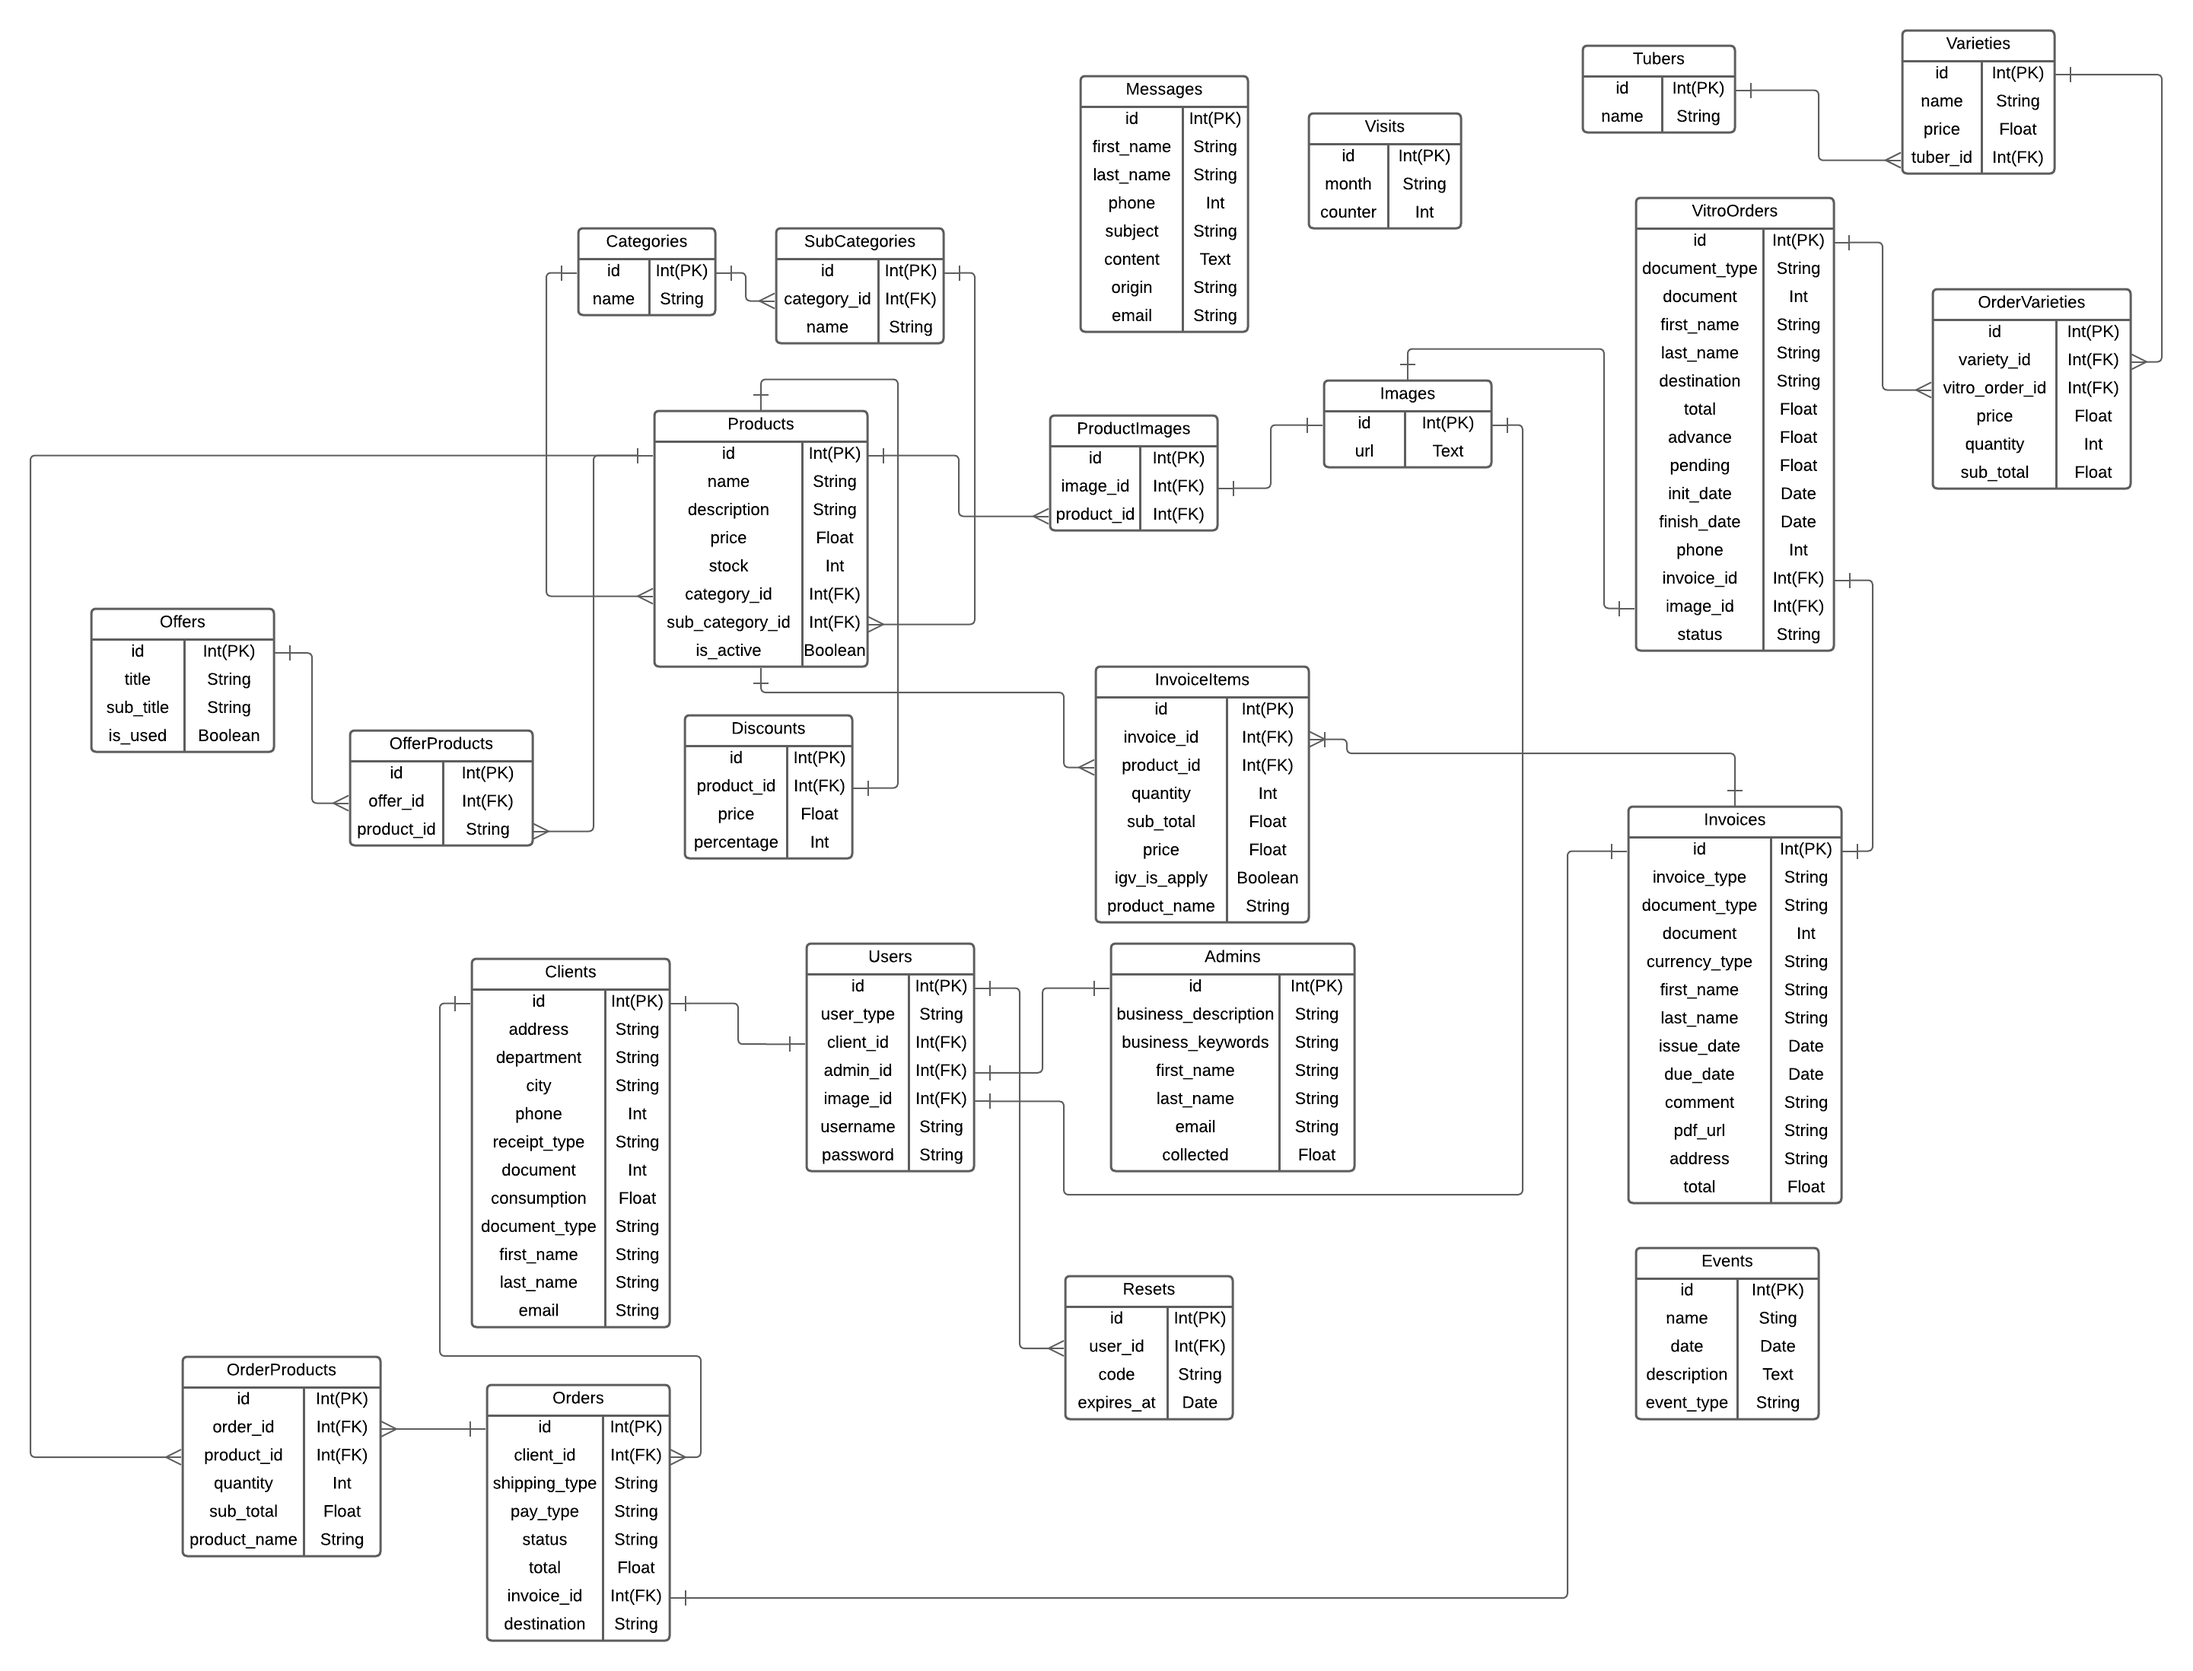
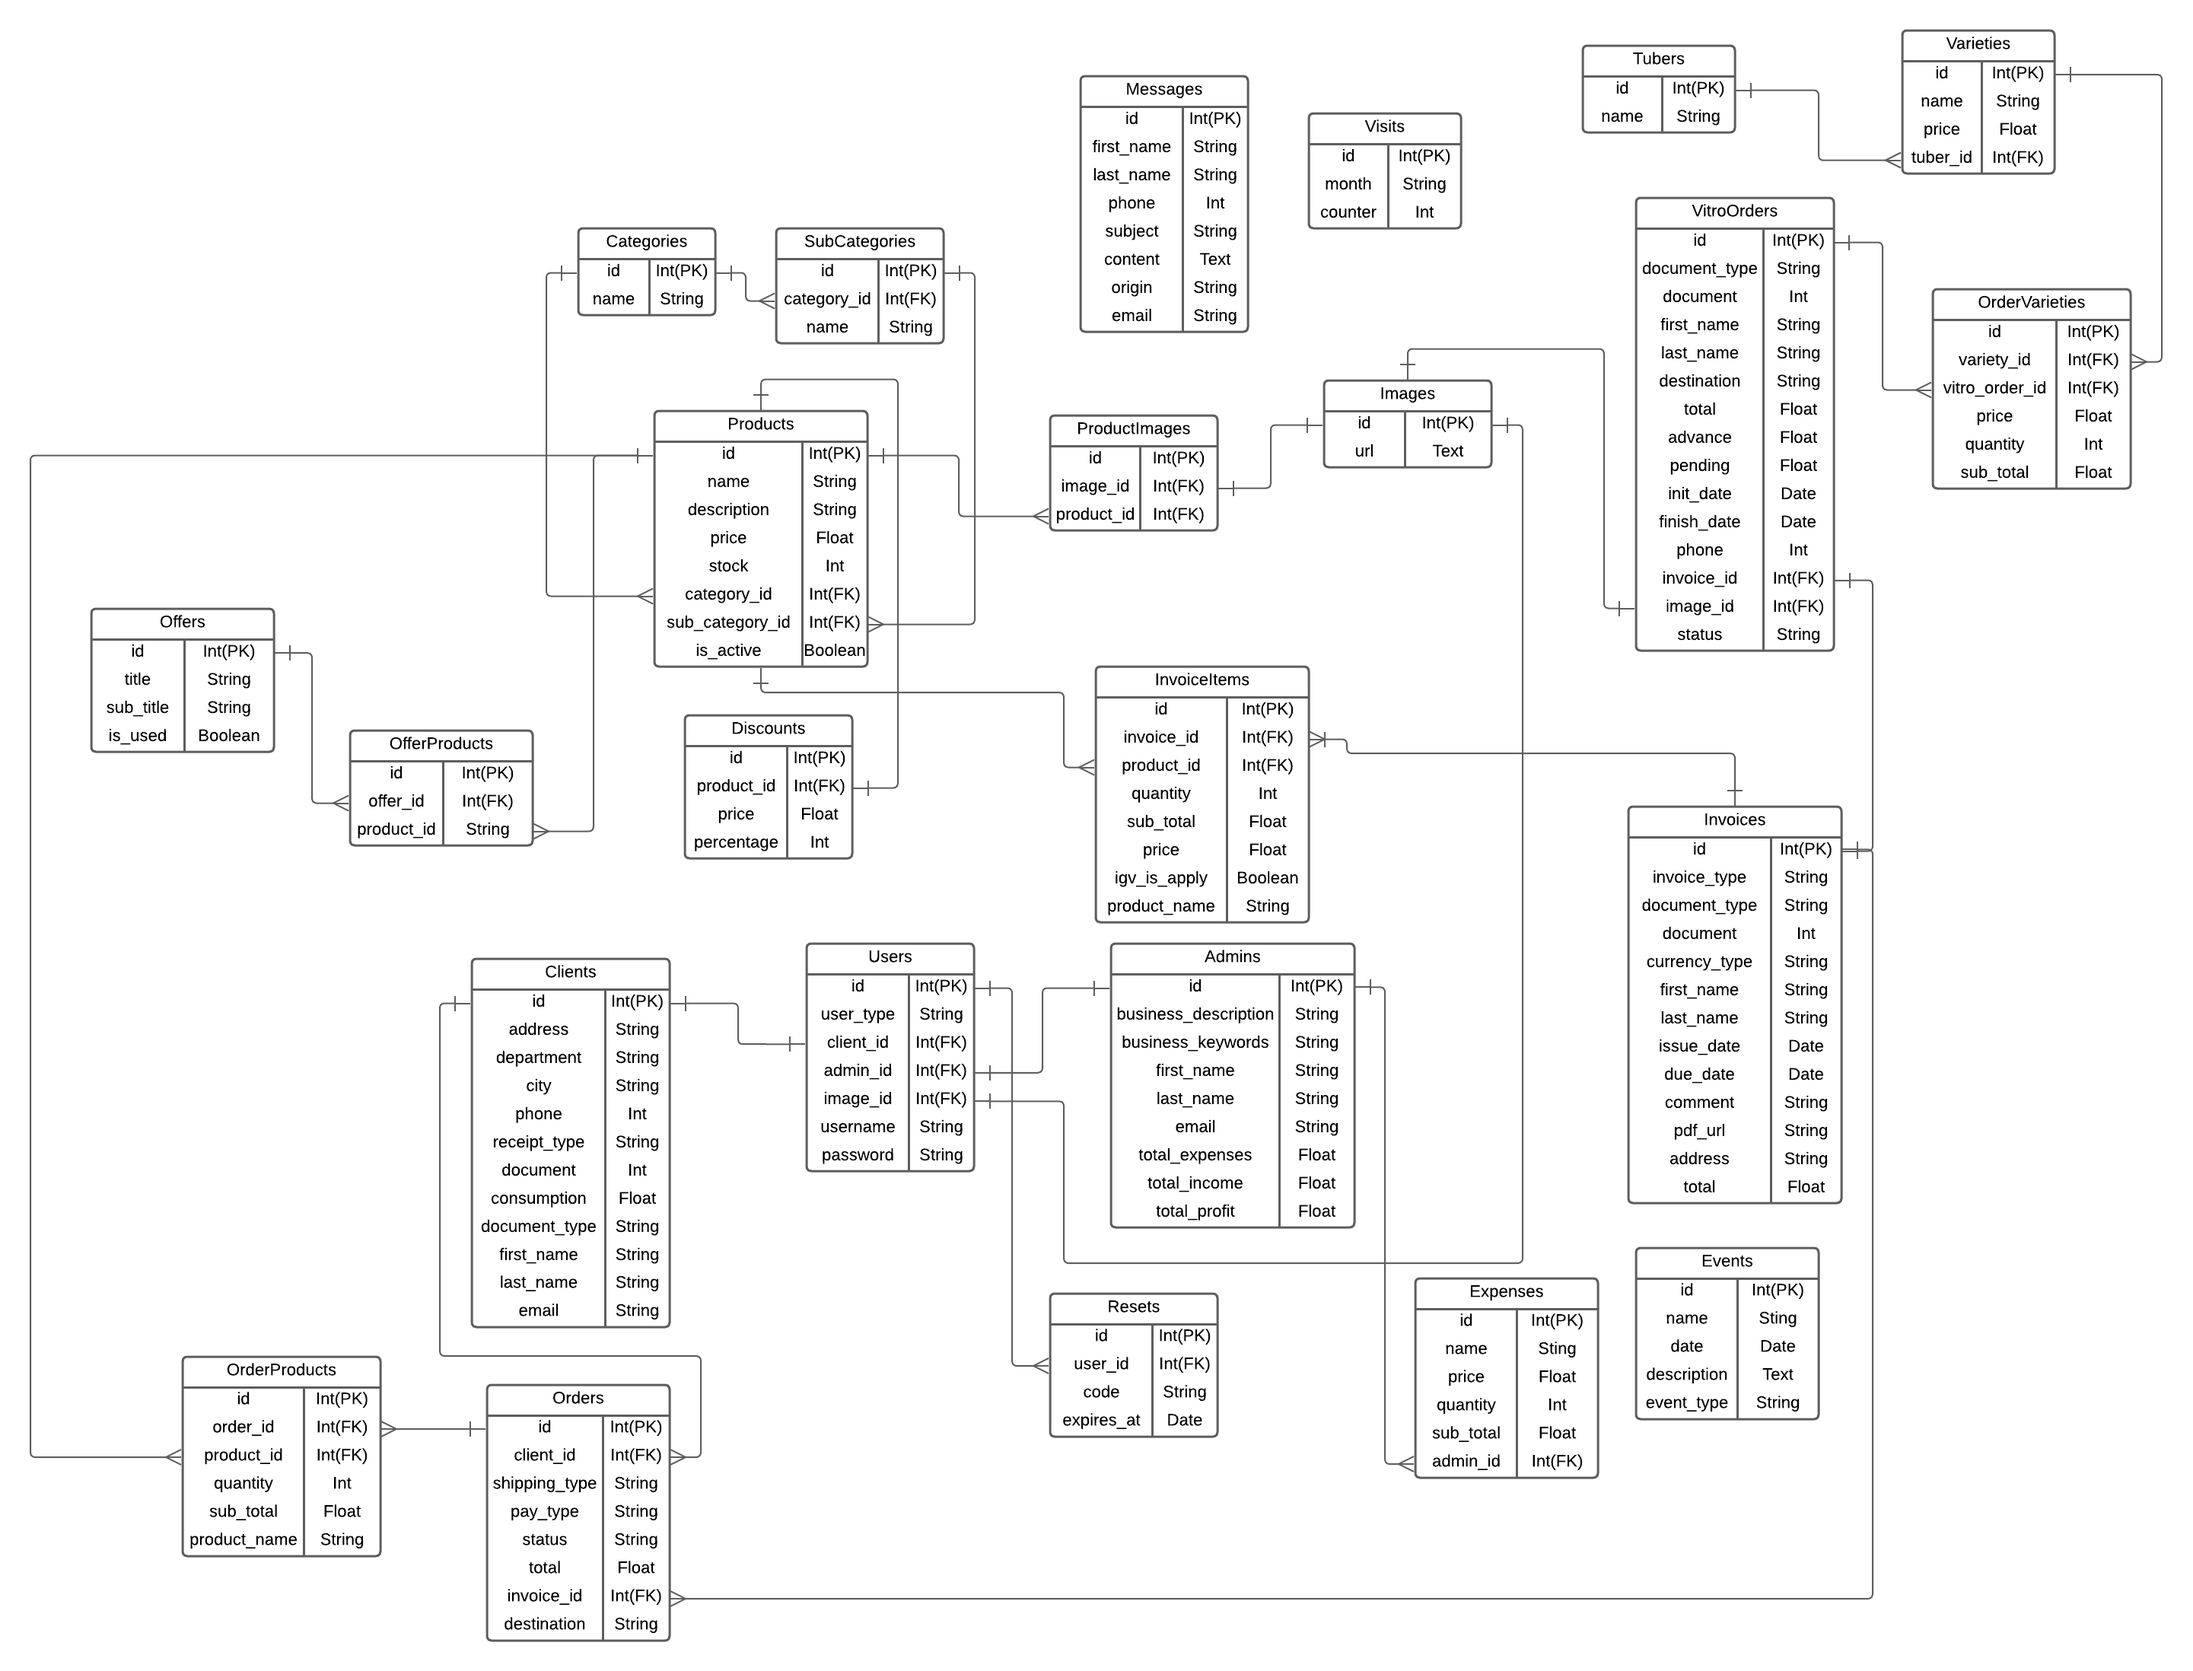
ADD: expenses table

Changed region(s): [[0.4684, 0.6812, 0.6246, 0.867], [0.6558, 0.7432, 0.7183, 0.898]]

diff --git a/app/Policies/ExpensePolicy.php b/app/Policies/ExpensePolicy.php
@@ -1,0 +1,66 @@
+<?php
+
+namespace App\Policies;
+
+use App\Models\Expense;
+use App\Models\User;
+use Illuminate\Auth\Access\Response;
+
+class ExpensePolicy
+{
+    /**
+     * Determine whether the user can view any models.
+     */
+    public function viewAny(User $user): bool
+    {
+        //
+    }
+
+    /**
+     * Determine whether the user can view the model.
+     */
+    public function view(User $user, Expense $expense): bool
+    {
+        //
+    }
+
+    /**
+     * Determine whether the user can create models.
+     */
+    public function create(User $user): bool
+    {
+        //
+    }
+
+    /**
+     * Determine whether the user can update the model.
+     */
+    public function update(User $user, Expense $expense): bool
+    {
+        //
+    }
+
+    /**
+     * Determine whether the user can delete the model.
+     */
+    public function delete(User $user, Expense $expense): bool
+    {
+        //
+    }
+
+    /**
+     * Determine whether the user can restore the model.
+     */
+    public function restore(User $user, Expense $expense): bool
+    {
+        //
+    }
+
+    /**
+     * Determine whether the user can permanently delete the model.
+     */
+    public function forceDelete(User $user, Expense $expense): bool
+    {
+        //
+    }
+}

diff --git a/app/Http/Controllers/ExpenseController.php b/app/Http/Controllers/ExpenseController.php
@@ -1,0 +1,66 @@
+<?php
+
+namespace App\Http\Controllers;
+
+use App\Http\Requests\StoreExpenseRequest;
+use App\Http\Requests\UpdateExpenseRequest;
+use App\Models\Expense;
+
+class ExpenseController extends Controller
+{
+    /**
+     * Display a listing of the resource.
+     */
+    public function index()
+    {
+        //
+    }
+
+    /**
+     * Show the form for creating a new resource.
+     */
+    public function create()
+    {
+        //
+    }
+
+    /**
+     * Store a newly created resource in storage.
+     */
+    public function store(StoreExpenseRequest $request)
+    {
+        //
+    }
+
+    /**
+     * Display the specified resource.
+     */
+    public function show(Expense $expense)
+    {
+        //
+    }
+
+    /**
+     * Show the form for editing the specified resource.
+     */
+    public function edit(Expense $expense)
+    {
+        //
+    }
+
+    /**
+     * Update the specified resource in storage.
+     */
+    public function update(UpdateExpenseRequest $request, Expense $expense)
+    {
+        //
+    }
+
+    /**
+     * Remove the specified resource from storage.
+     */
+    public function destroy(Expense $expense)
+    {
+        //
+    }
+}

diff --git a/database/migrations/2024_05_02_163255_create_expenses_table.php b/database/migrations/2024_05_02_163255_create_expenses_table.php
@@ -1,0 +1,34 @@
+<?php
+
+use Illuminate\Database\Migrations\Migration;
+use Illuminate\Database\Schema\Blueprint;
+use Illuminate\Support\Facades\Schema;
+
+return new class extends Migration
+{
+  /**
+   * Run the migrations.
+   */
+  public function up(): void
+  {
+    Schema::create('expenses', function (Blueprint $table) {
+      $table->id();
+      $table->string("name");
+      $table->float("price");
+      $table->integer("quantity");
+      $table->float("sub_total");
+      $table->unsignedBigInteger("admin_id");
+      $table->timestamps();
+
+      $table->foreign("admin_id")->references("id")->on("admins");
+    });
+  }
+
+  /**
+   * Reverse the migrations.
+   */
+  public function down(): void
+  {
+    Schema::dropIfExists('expenses');
+  }
+};

diff --git a/app/Http/Requests/UpdateExpenseRequest.php b/app/Http/Requests/UpdateExpenseRequest.php
@@ -1,0 +1,28 @@
+<?php
+
+namespace App\Http\Requests;
+
+use Illuminate\Foundation\Http\FormRequest;
+
+class UpdateExpenseRequest extends FormRequest
+{
+    /**
+     * Determine if the user is authorized to make this request.
+     */
+    public function authorize(): bool
+    {
+        return false;
+    }
+
+    /**
+     * Get the validation rules that apply to the request.
+     *
+     * @return array<string, \Illuminate\Contracts\Validation\ValidationRule|array<mixed>|string>
+     */
+    public function rules(): array
+    {
+        return [
+            //
+        ];
+    }
+}

diff --git a/app/Http/Requests/StoreExpenseRequest.php b/app/Http/Requests/StoreExpenseRequest.php
@@ -1,0 +1,28 @@
+<?php
+
+namespace App\Http\Requests;
+
+use Illuminate\Foundation\Http\FormRequest;
+
+class StoreExpenseRequest extends FormRequest
+{
+    /**
+     * Determine if the user is authorized to make this request.
+     */
+    public function authorize(): bool
+    {
+        return false;
+    }
+
+    /**
+     * Get the validation rules that apply to the request.
+     *
+     * @return array<string, \Illuminate\Contracts\Validation\ValidationRule|array<mixed>|string>
+     */
+    public function rules(): array
+    {
+        return [
+            //
+        ];
+    }
+}

diff --git a/database/migrations/2024_04_02_001418_create_admins_table.php b/database/migrations/2024_04_02_001418_create_admins_table.php
@@ -18,7 +18,9 @@ return new class extends Migration
       $table->string("first_name");
       $table->string("last_name");
       $table->string("email");
-      $table->float("collected")->default(0);
+      $table->float("total_expenses")->default(0);
+      $table->float("total_income")->default(0);
+      $table->float("total_profit")->default(0);
       $table->timestamps();
     });
   }

diff --git a/app/Models/Expense.php b/app/Models/Expense.php
@@ -1,0 +1,22 @@
+<?php
+
+namespace App\Models;
+
+use Illuminate\Database\Eloquent\Factories\HasFactory;
+use Illuminate\Database\Eloquent\Model;
+
+class Expense extends Model
+{
+  use HasFactory;
+
+  protected $fillable = [
+    "name",
+    "price",
+    "quantity",
+    "sub_total"
+  ];
+
+  public function admin() {
+    return $this->belongsTo(Admin::class);
+  }
+}
